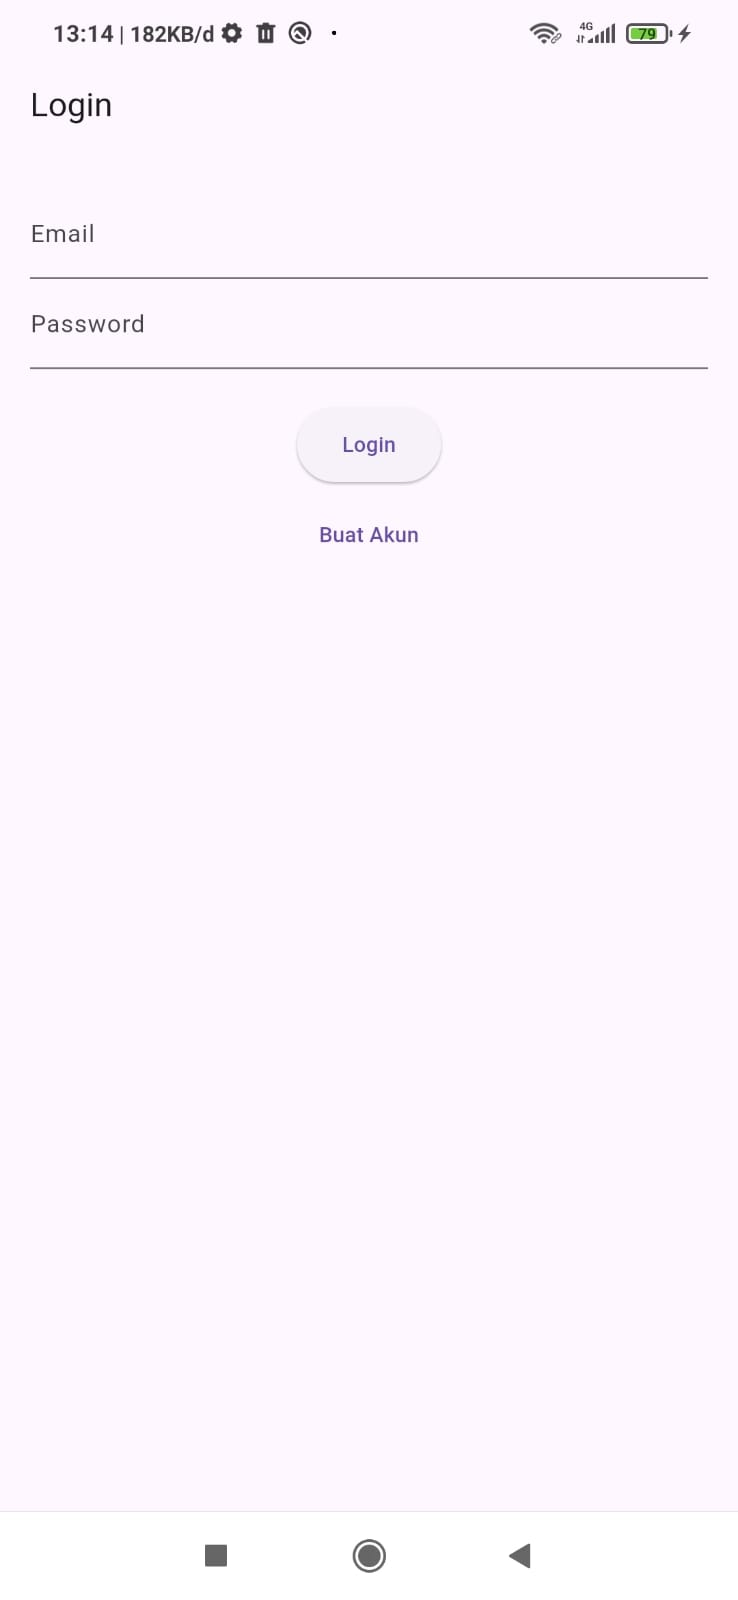
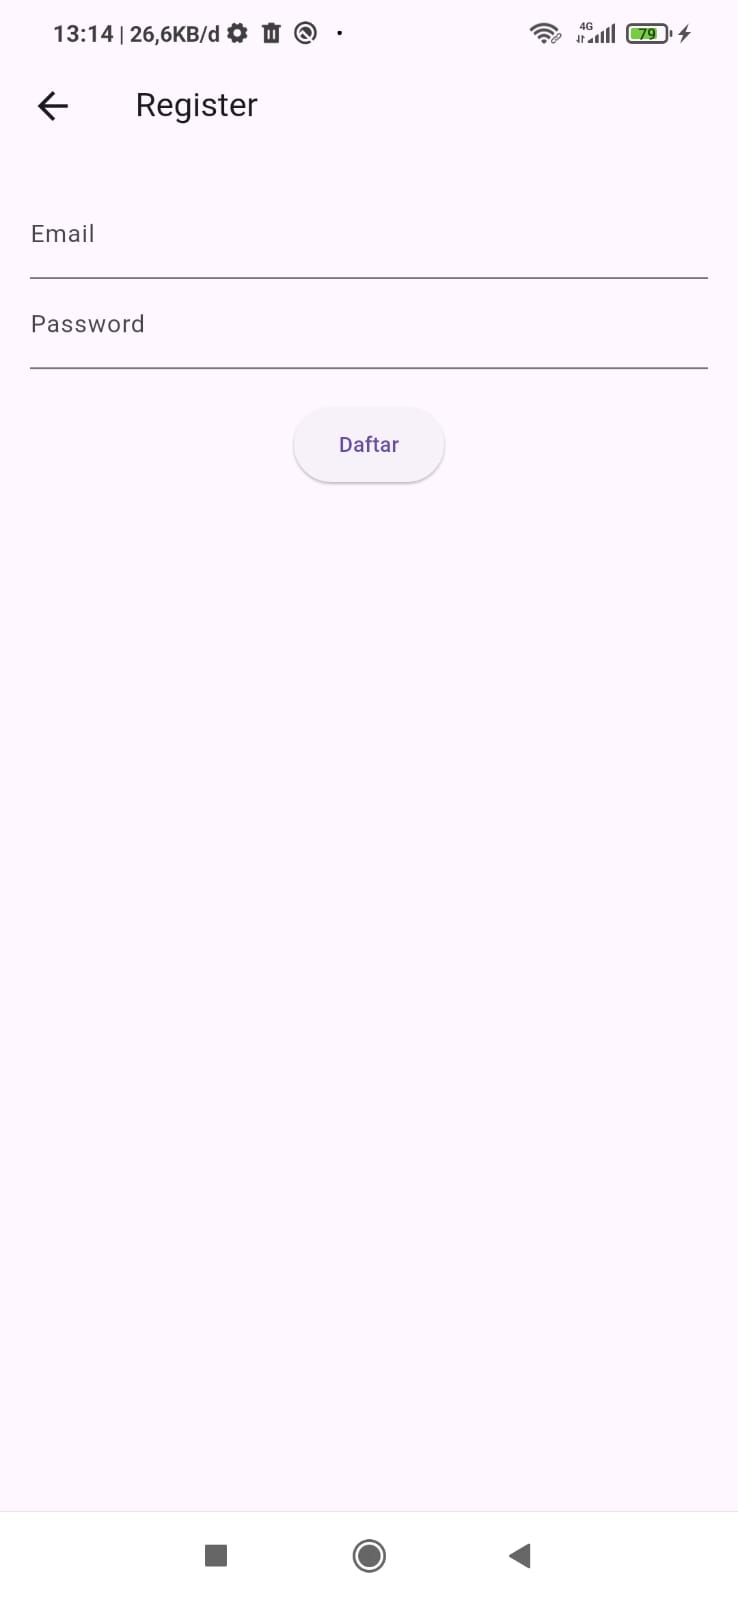
debugging 3

diff --git a/lib/screens/transaction_list_screen.dart b/lib/screens/transaction_list_screen.dart
@@ -9,6 +9,41 @@ import 'auth/login_screen.dart';
 class TransactionListScreen extends StatelessWidget {
   const TransactionListScreen({super.key});
 
+  // Fungsi untuk menampilkan dialog konfirmasi hapus
+  void _showDeleteDialog(
+    BuildContext context,
+    TransactionProvider provider,
+    String id,
+  ) {
+    showDialog(
+      context: context,
+      builder:
+          (context) => AlertDialog(
+            title: const Text("Hapus Catatan"),
+            content: const Text("Yakin ingin menghapus catatan ini?"),
+            actions: [
+              TextButton(
+                onPressed: () => Navigator.pop(context),
+                child: const Text("Batal"),
+              ),
+              TextButton(
+                onPressed: () {
+                  provider.delete(id);
+                  Navigator.pop(context);
+                  ScaffoldMessenger.of(context).showSnackBar(
+                    const SnackBar(content: Text("Catatan berhasil dihapus")),
+                  );
+                },
+                child: const Text(
+                  "Ya, Hapus",
+                  style: TextStyle(color: Colors.red),
+                ),
+              ),
+            ],
+          ),
+    );
+  }
+
   @override
   Widget build(BuildContext context) {
     final provider = context.watch<TransactionProvider>();
@@ -54,16 +89,20 @@ class TransactionListScreen extends StatelessWidget {
             child: Row(
               mainAxisAlignment: MainAxisAlignment.spaceAround,
               children: [
-                _summaryItem("Masuk", totalMasuk, Colors.greenAccent),
-                _summaryItem("Keluar", totalKeluar, Colors.orangeAccent),
-                _summaryItem("Saldo", totalMasuk - totalKeluar, Colors.white),
+                _summaryItem("Pemasukan", totalMasuk, Colors.greenAccent),
+                _summaryItem("Pengeluaran", totalKeluar, Colors.orangeAccent),
+                _summaryItem(
+                  "Sisa Dana",
+                  totalMasuk - totalKeluar,
+                  Colors.white,
+                ),
               ],
             ),
           ),
           Expanded(
             child:
                 transactions.isEmpty
-                    ? const Center(child: Text("Belum ada data"))
+                    ? const Center(child: Text("Belum ada catatan"))
                     : ListView.builder(
                       itemCount: transactions.length,
                       itemBuilder: (context, index) {
@@ -111,7 +150,12 @@ class TransactionListScreen extends StatelessWidget {
                                   Icons.delete,
                                   color: Colors.red,
                                 ),
-                                onPressed: () => provider.delete(tx.id),
+                                onPressed:
+                                    () => _showDeleteDialog(
+                                      context,
+                                      provider,
+                                      tx.id,
+                                    ),
                               ),
                             ],
                           ),

diff --git a/lib/providers/auth_provider.dart b/lib/providers/auth_provider.dart
@@ -4,7 +4,6 @@ import 'package:firebase_auth/firebase_auth.dart';
 
 class AuthProvider extends ChangeNotifier {
   final AuthService _service = AuthService();
-
   User? user;
 
   AuthProvider() {
@@ -14,12 +13,35 @@ class AuthProvider extends ChangeNotifier {
     });
   }
 
+  // Fungsi pembantu untuk menerjemahkan error Firebase
+  String _mapFirebaseError(Object e) {
+    if (e is FirebaseAuthException) {
+      switch (e.code) {
+        case 'user-not-found':
+          return 'Email tidak terdaftar.';
+        case 'wrong-password':
+          return 'Kata sandi salah.';
+        case 'email-already-in-use':
+          return 'Email sudah digunakan akun lain.';
+        case 'invalid-email':
+          return 'Format email tidak valid.';
+        case 'weak-password':
+          return 'Kata sandi terlalu lemah.';
+        case 'user-disabled':
+          return 'Akun ini telah dinonaktifkan.';
+        default:
+          return 'Terjadi kesalahan: ${e.message}';
+      }
+    }
+    return 'Terjadi kesalahan koneksi.';
+  }
+
   Future<String?> login(String email, String password) async {
     try {
       await _service.login(email, password);
       return null;
     } catch (e) {
-      return e.toString();
+      return _mapFirebaseError(e); // Gunakan pemetaan error
     }
   }
 
@@ -28,7 +50,7 @@ class AuthProvider extends ChangeNotifier {
       await _service.register(email, password);
       return null;
     } catch (e) {
-      return e.toString();
+      return _mapFirebaseError(e); // Gunakan pemetaan error
     }
   }
 

diff --git a/lib/widgets/summary_panel.dart b/lib/widgets/summary_panel.dart
@@ -26,13 +26,11 @@ class SummaryPanel extends StatelessWidget {
               "Ringkasan Keuangan",
               style: Theme.of(context).textTheme.titleMedium,
             ),
-
             const SizedBox(height: 12),
-
             Row(
               mainAxisAlignment: MainAxisAlignment.spaceBetween,
               children: [
-                Text(
+                const Text(
                   "Pemasukan:",
                   style: TextStyle(
                     color: Colors.green,
@@ -42,11 +40,10 @@ class SummaryPanel extends StatelessWidget {
                 Text("Rp $income", style: const TextStyle(color: Colors.green)),
               ],
             ),
-
             Row(
               mainAxisAlignment: MainAxisAlignment.spaceBetween,
               children: [
-                Text(
+                const Text(
                   "Pengeluaran:",
                   style: TextStyle(
                     color: Colors.red,
@@ -56,14 +53,12 @@ class SummaryPanel extends StatelessWidget {
                 Text("Rp $expense", style: const TextStyle(color: Colors.red)),
               ],
             ),
-
             const Divider(height: 24),
-
             Row(
               mainAxisAlignment: MainAxisAlignment.spaceBetween,
               children: [
                 Text(
-                  isSurplus ? "Surplus:" : "Defisit:",
+                  isSurplus ? "Sisa Dana (Surplus):" : "Sisa Dana (Defisit):",
                   style: const TextStyle(fontWeight: FontWeight.bold),
                 ),
                 Text(
